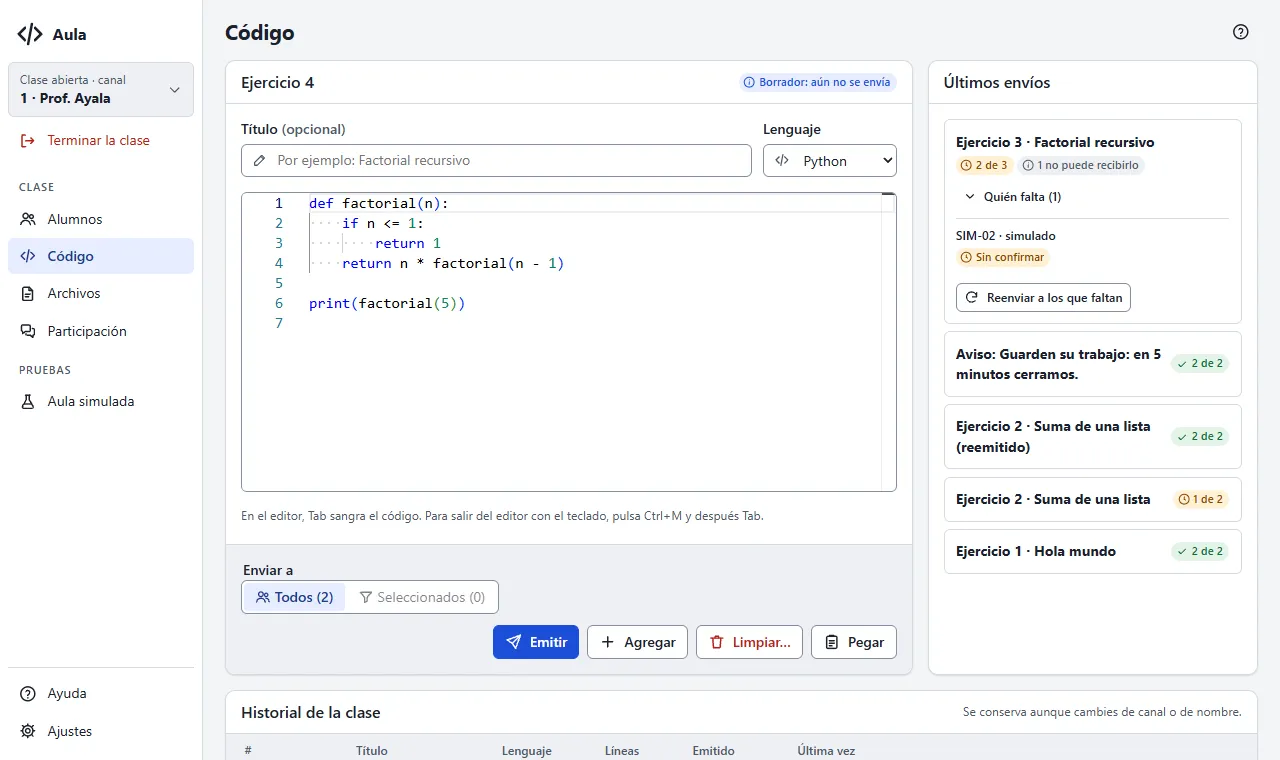
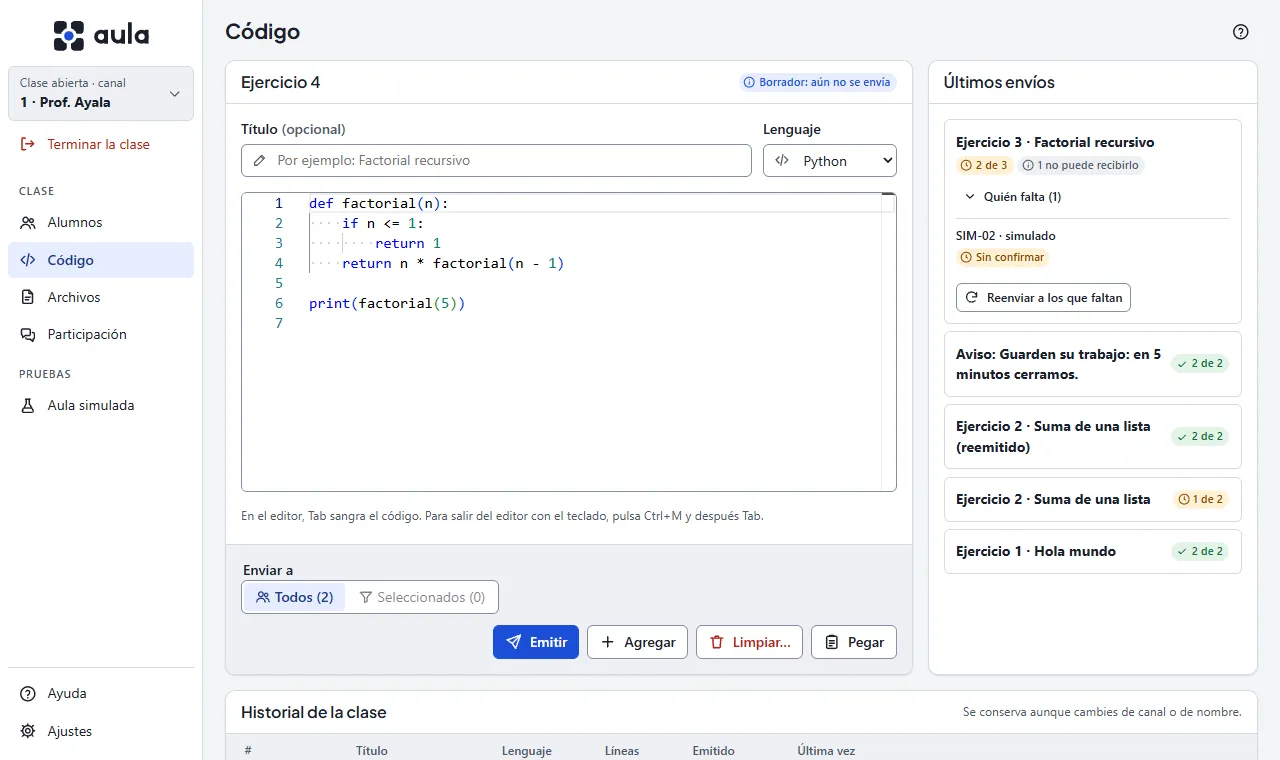
documentacion(docs): D-021, manual, casos C-119 a A-52, progreso, CHANGELOG y CLAUDE.md
Resume las reglas del sistema de diseño en CLAUDE.md, registra la fuente embebida (D-021),
agrega los casos manuales de iconos y fuente en la ventana real y regenera las capturas del
manual.

diff --git a/CLAUDE.md b/CLAUDE.md
@@ -216,6 +216,33 @@ Vale para cualquier prompt, aunque se haya escrito antes de las etapas 18 y 19. 
   paquete). Al publicar, esa sección toma el número y la fecha de la versión
   (`docs/desarrollo/publicar.md`).
 
+## Sistema de diseño
+Referencia completa en `docs/ux/DESIGN_SYSTEM.md`; la fuente de verdad es `internal/ui/tokens.css`.
+- **Marca: Nodo** (cuatro pantallas con un punto central de acento). Solo el isotipo por debajo
+  de 24 px de alto; mínimo 16 px. El nodo nunca toma un color de estado. «aula» en minúsculas
+  en el logotipo, dibujado con trazos (no es texto). Los SVG oficiales salen de la página de marca
+  enlazada en `docs/ux/DESIGN_SYSTEM.md`.
+- **Color por función, nunca por tono:** superficies (`--c-fondo`, `--c-superficie`,
+  `--c-superficie-2`), texto, borde, acento (marca y acción, una acción primaria por zona) y
+  estados con terna texto/fondo/sólido (conectado, desconectado, advertencia, error, simulado,
+  info). Un estado siempre va con icono o texto, no solo color.
+- **Solo tokens:** ningún color, tamaño de letra, radio o sombra suelto. Un valor nuevo es un
+  token en los tres bloques de tema y su par en `contrast_test.go` (WCAG AA: 4.5:1 texto, 3:1
+  bordes, foco y marcas).
+- **Tipografía:** títulos (`--f-titulo`) en Plus Jakarta Sans **embebida** en `internal/ui/fuentes`
+  (nada se descarga; D-021); texto (`--f-texto`) y código (`--f-mono`) del sistema. La raíz mide
+  15 px (1 rem = 15 px): `--t-xs` 11.3 · `--t-sm` 12.2 · `--t-codigo` 14 · `--t-md` 14.1 ·
+  `--t-lg` 15.9 · `--t-xl` 20.6 · `--t-2xl` 26.3 px; pesos 400/600/700.
+- **Logo en las apps:** isotipo `<svg class="logo"><use href="sistema/iconos.svg#marca"/></svg>`
+  y logotipo `class="logotipo"` con `#marca-horizontal` («aula» en minúsculas; `.marca` son las
+  casillas de selección). SVG oficiales e iconos de app con `node scripts/ux/marca.mjs`.
+- **Espacio y forma:** cuartos de rem (`--e-1`…`--e-7`), separar con `gap`; radios `--r-sm` 4,
+  `--r-md` 6, `--r-lg` 10, `--r-pill`; `--sombra-1` en reposo, `--sombra-2` solo para lo que flota.
+- **Cuadrícula en vivo:** dentro de `.alumno` nada de `backdrop-filter`, `filter`, sombras o
+  transiciones animadas, ni `will-change`; selección con `box-shadow` fijo.
+- **Los nombres de tokens y clases no se renombran.** Un rediseño cambia valores y agrega; no toca
+  HTML funcional (ids, `data-*`, roles), JS, bindings ni eventos.
+
 ## Integración continua (GitHub Actions)
 - Remoto: `origin` = `https://github.com/bayalad7/aula.git`.
 - Acciones ancladas a versión mayor (`actions/checkout@v7`, `actions/setup-go@v7`,

diff --git a/docs/desarrollo/probar-consola-local.md b/docs/desarrollo/probar-consola-local.md
@@ -255,6 +255,18 @@ revisan a ojo en su equipo (nunca con clics sintéticos en tu escritorio).
 | A-49 | **Entendido** en la tarjeta; termina otra vez y luego emite código | La tarjeta se cierra; la segunda vez dice «Tu ventana ya estaba vacía»; al llegar código se va sola |
 | A-50 | Repite A-48 con el agente como servicio | Lo mismo; `aula-agente.log` dice «class ended» con cuántas cosas se quitaron, **nunca** el código ni los avisos |
 
+### Marca Nodo y sistema de diseño (2026-11-12)
+
+Lo que el arnés no ve: la ventana real de Wails, los iconos del sistema y la fuente servida por
+Wails (`docs/ux/DESIGN_SYSTEM.md`).
+
+| Caso | Pasos | Esperado |
+|---|---|---|
+| C-119 | Compila e instala la consola; mira el acceso directo, la barra de tareas y Alt+Tab | El icono Nodo (cuatro pantallas claras y un punto azul sobre una placa oscura) en los tres, nítido a 16, 24 y 32 px; ningún icono genérico de Wails |
+| C-120 | Abre la consola en modo claro y oscuro de Windows, sin red | Arranque con el logo Nodo y el menú con el logotipo «aula» (minúsculas) centrado; al angostar la ventana a menos de 1100 px, solo el isotipo centrado; títulos («Alumnos», «Código»…) en Plus Jakarta Sans aunque no haya internet (más redonda y ancha que el texto, igual que en las capturas del manual); el texto sigue en Segoe UI |
+| A-51 | Instala el agente; con la ventana cerrada, mira el área de notificación con la barra clara y la oscura; luego emite código | El icono Nodo se lee en las dos barras; al llegar código aparece su punto de «llegó algo» en la esquina, sin tapar el nodo central |
+| A-52 | Abre la ventana del alumno, compáctala y restáurala | El logo pequeño a la izquierda de la tira y del modo compacto, antes del punto de conexión; el código recibido se lee a 14 px |
+
 ### Notas de interfaz 014–016 (2026-11-12)
 
 | # | Pasos | Esperado |

diff --git a/docs/decisiones.md b/docs/decisiones.md
@@ -756,3 +756,23 @@ salida UDP hacia `ws_port + 1` (Windows la permite por omisión; las respuestas 
 asociación) y que la consola la reciba (su regla por programa de la etapa 12 ya lo cubre).
 
 Versión: función nueva compatible → sube `y`.
+
+## D-021: Plus Jakarta Sans embebida para los títulos
+
+**Fecha:** 2026-11-12 · **Estado:** aprobada (rediseño del sistema de diseño, fase 2).
+
+**Contexto.** El logo nuevo, Nodo (`docs/ux/DESIGN_SYSTEM.md` §2), se pensó junto a Plus Jakarta
+Sans. Las apps solo usaban fuentes del sistema porque los laboratorios pueden no tener internet.
+
+**Decisión.** Los títulos (`--f-titulo`) usan Plus Jakarta Sans; el texto y el código siguen con
+las fuentes del sistema (Segoe UI dibuja mejor a tamaños pequeños en Windows). La fuente va
+**dentro del binario**: `internal/ui/fuentes/plus-jakarta-sans.woff2`, la variable 200–800 del
+subconjunto latino (27 KB, de `@fontsource-variable/plus-jakarta-sans` 5.3.0), con su licencia
+SIL OFL 1.1 en `fuentes/OFL.txt`. `tokens.css` la declara con `@font-face` y `ui.Assets` la sirve
+bajo `sistema/fuentes/`; la CSP de las dos apps ya permite fuentes de `'self'`. Los caracteres
+fuera del subconjunto caen a la pila del sistema.
+
+**Consecuencias.** Nada se descarga en tiempo de ejecución. `TestCSSURLsAreEmbedded` falla si un
+`url()` del CSS apunta a algo que no va en el binario o si falta la licencia. Los títulos ocupan un
+poco más de ancho que con Segoe UI; las capturas del arnés y del manual cambian (fase 3). El
+logotipo no depende de la fuente: «aula» está dibujado en el SVG.

diff --git a/docs/progreso.md b/docs/progreso.md
@@ -1208,6 +1208,21 @@ de la barra de acciones a la cabecera, y la barra, solo de botones, muestra los 
 desde 1035 px. Capturas 173–183 del arnés, mapa y manual (Alumnos) al día. Falta revisarlas en la
 ventana real.
 
+## Sistema de diseño y marca Nodo, fases 1 a 3 (2026-11-12)
+
+Sin commit. Fase 1: auditoría y `docs/ux/DESIGN_SYSTEM.md` (marca, paleta por función, tipografía,
+tokens, componentes, reglas de la cuadrícula en vivo), con su resumen en `CLAUDE.md`. Página de
+marca (artifact privado del usuario) con los SVG oficiales y la marca en JSON. Fase 2 en
+`internal/ui`: tokens `--c-marca-tinta`, `--c-marca-nodo`, `--c-sobre-solido(-texto)`,
+`--c-sombra-barra` y `--t-codigo` (14 px); Plus Jakarta Sans embebida para los títulos (D-021,
+`TestCSSURLsAreEmbedded`); `#marca` en el sprite con el componente `.logo`; sin valores sueltos en
+`componentes.css`; `contain: layout paint` en `.alumno`; `scripts/ux/marca.mjs` genera
+`internal/ui/marca/*.svg`, `appicon.png` e `icon.ico` de las dos apps. Se corrigió en la
+documentación que la raíz mide 15 px, no 16. Fase 3: el logo en la navegación y el arranque de
+la consola y en la tira y el modo compacto del alumno; manual y mapa regenerados; resumen en
+`docs/ux/historial/marca-nodo.md`. Pendiente: casos C-119, C-120, A-51 y A-52 en la ventana real
+(iconos de la barra de tareas y del área de notificación, fuente servida por Wails sin red).
+
 ## Etapa 10.21: pausar pantallas (pantalla en blanco, D-013) — notas
 
 Aprobado el 12/11/2026 (`/funcionalidad-nueva 10.21`). Ubicación elegida por el usuario: panel

diff --git a/CHANGELOG.md b/CHANGELOG.md
@@ -93,6 +93,9 @@ retiraron; esta es la primera.
   desde la barra de acciones y **Ficha del alumno** con lo que puede hacer su equipo.
 - **Manual y diagramas** dentro de la consola, con búsqueda y ayuda de cada pantalla.
 - Modo claro y oscuro, teclado completo y contraste WCAG AA; funciona a 900×600.
+- **Identidad nueva, Nodo:** el logo de Aula (cuatro pantallas unidas por un punto) en el icono de
+  las dos apps y de la bandeja, y títulos en Plus Jakarta Sans, incluida en Aula para que se vea
+  igual sin internet. El código que recibe el alumno se ve un poco más grande (14 px).
 
 ### Para quien instala
 
